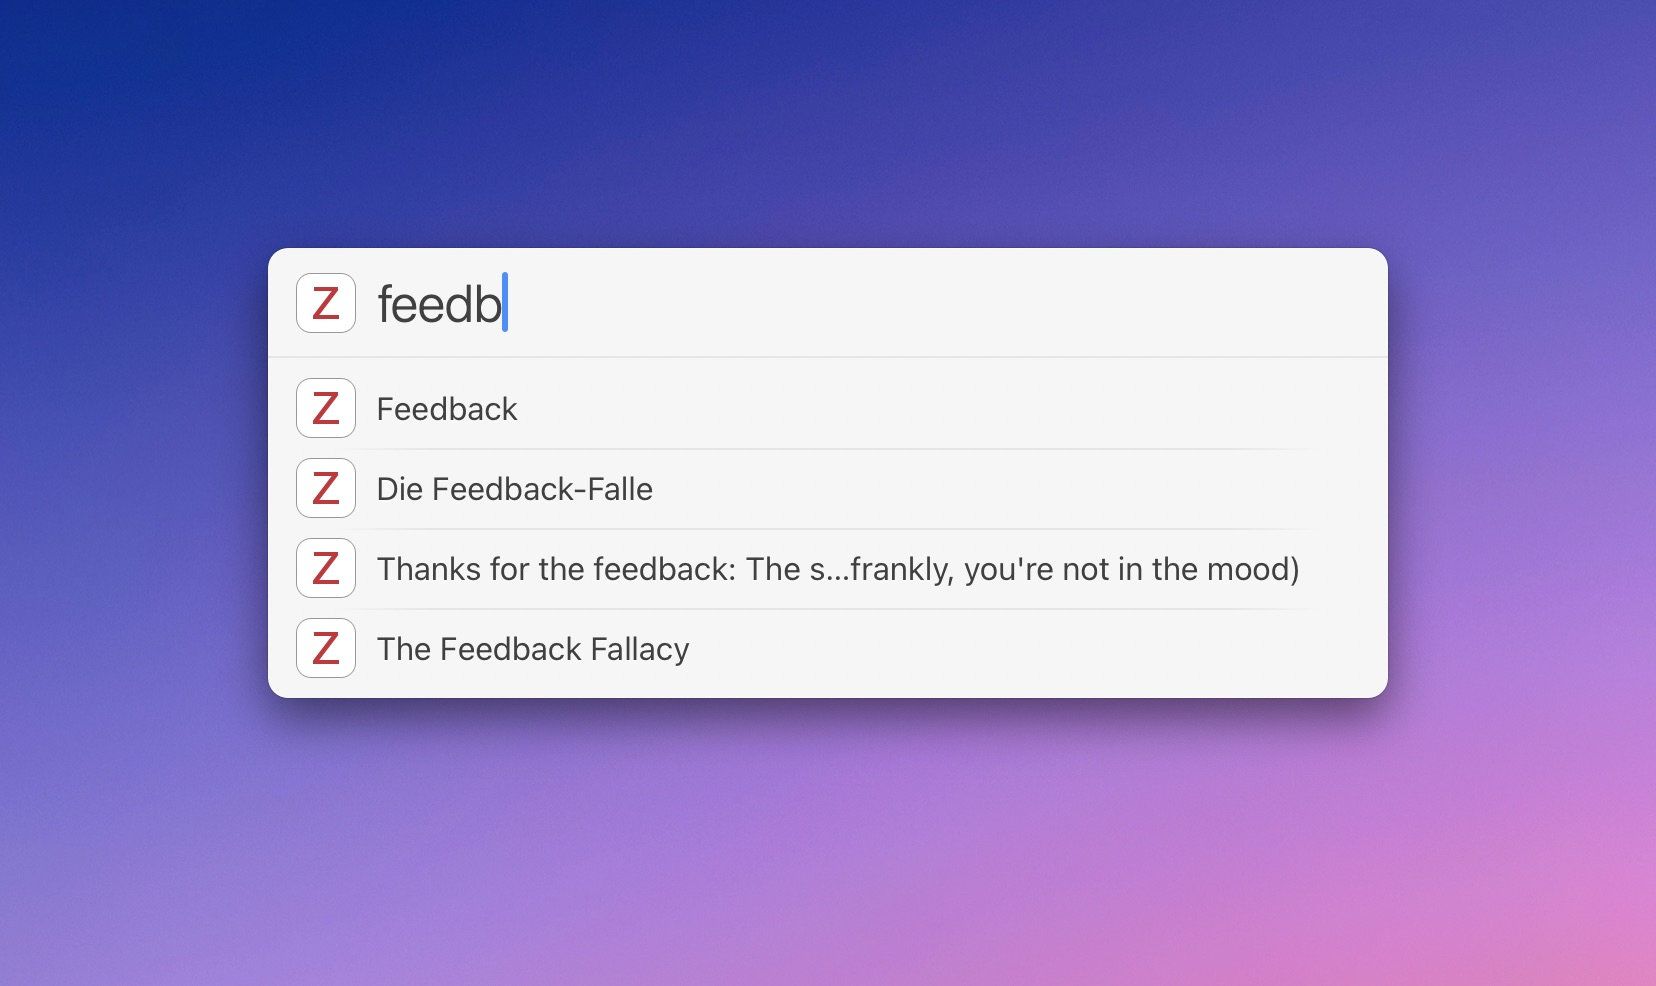
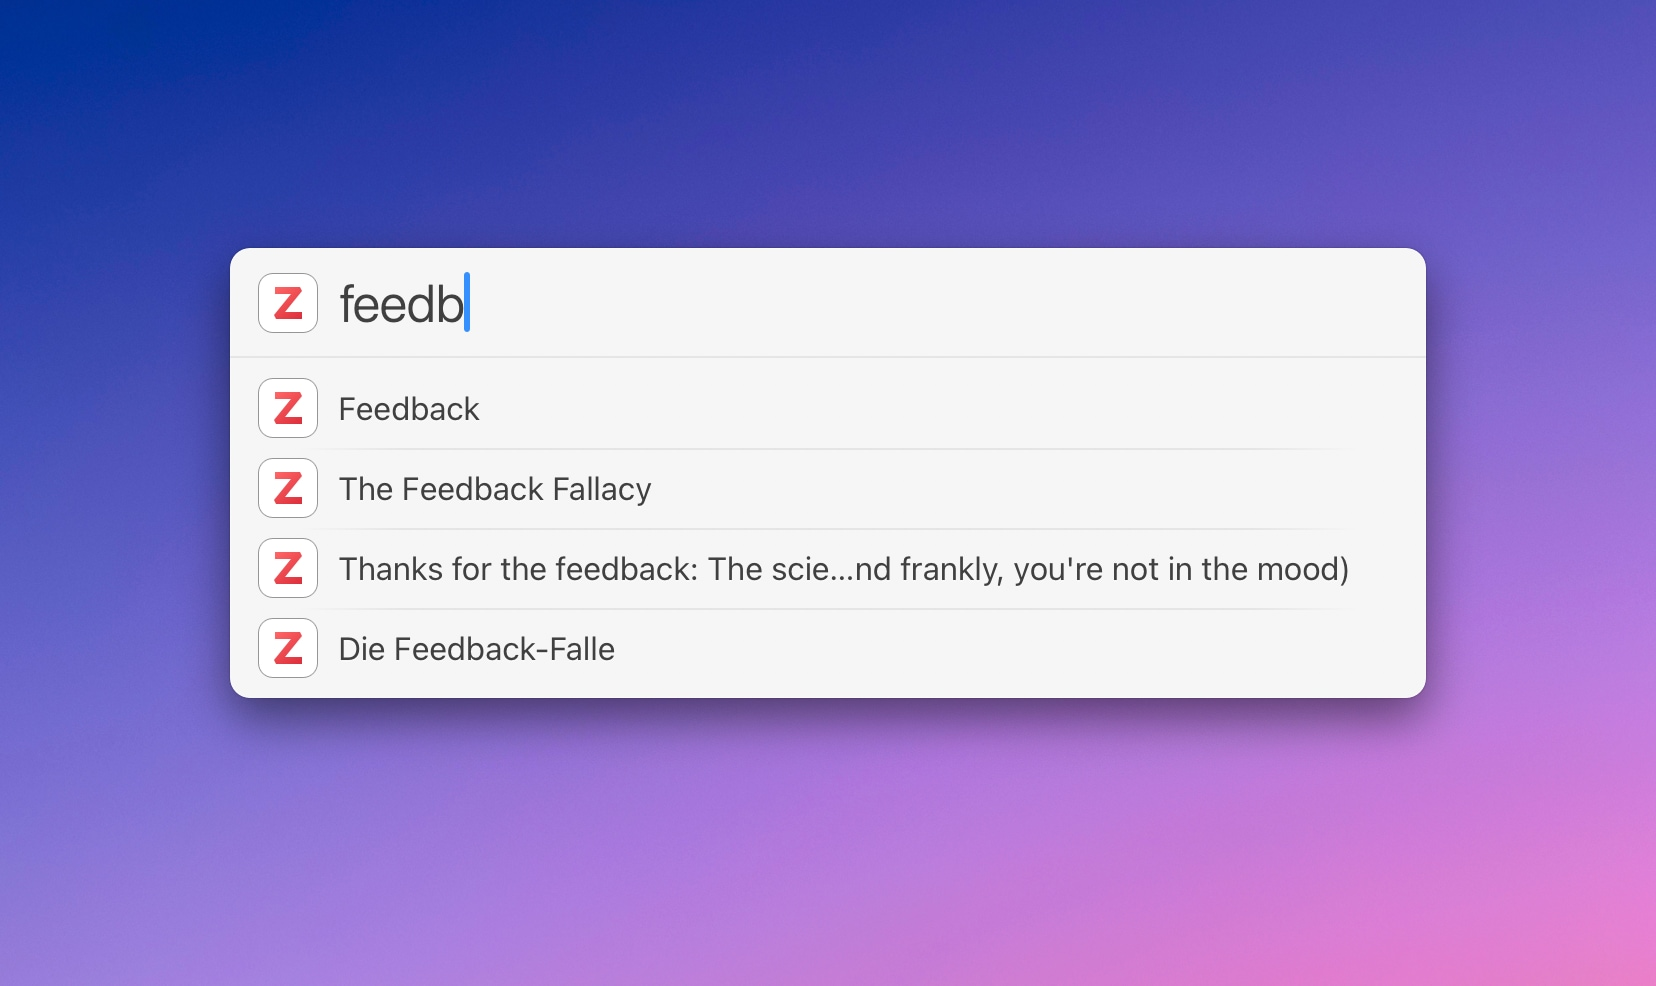
1.6
Update for Zotero 7
- updated icons to match Z7 style
- respect Zotero setting for opening PDFs
- changed wording from "Open in Zotero" to "Select in Zotero"

Changed region(s): [[0.1232, 0.2434, 0.8007, 0.7302], [0.8315, 0.2434, 0.8931, 0.7302]]

diff --git a/Zotero-Actions/Zotero Search v2.lbaction/Contents/Scripts/default.js b/Zotero-Actions/Zotero Search v2.lbaction/Contents/Scripts/default.js
@@ -4,6 +4,9 @@ by Christian Bender (@ptujec)
 2023-05-17
 
 Copyright see: https://github.com/Ptujec/LaunchBar/blob/master/LICENSE
+
+TODO: 
+- Build citation according to a csl style sheet?
 */
 
 const zoteroDirectory = getZoteroDirectory();
@@ -337,7 +340,7 @@ function showEntries(itemIDs, data) {
       attachmentItemIDs[item.itemID] = true;
     }
     map[item.itemID] = {
-      url: `zotero://select/items/${item.libraryID}_${item.key}`,
+      zoteroSelectURL: `zotero://select/items/${item.libraryID}_${item.key}`,
       typeName: item.typeName,
     };
     return map;
@@ -445,7 +448,9 @@ function showEntries(itemIDs, data) {
         icon: icon,
         action: 'itemActions',
         actionArgument: {
-          zoteroURL: itemsMap[itemID] ? itemsMap[itemID].url : '',
+          zoteroSelectURL: itemsMap[itemID]
+            ? itemsMap[itemID].zoteroSelectURL
+            : '',
           itemID: itemID,
           creators: creators,
           date: date,
@@ -482,7 +487,7 @@ function initializeName(name) {
 
 function itemActions(dict) {
   if (LaunchBar.options.commandKey) {
-    openZoteroURL(dict);
+    selectInZotero(dict);
   } else if (LaunchBar.options.shiftKey) {
     pasteCitation(dict);
   } else {
@@ -502,7 +507,7 @@ function showItemDetails(dict) {
 
   const attachedUrlsItemIDs = [];
 
-  const paths = data.itemAttachments.reduce((acc, item) => {
+  const attachmentsWithPath = data.itemAttachments.reduce((acc, item) => {
     if (itemID == item.parentItemID) {
       if (item.path) {
         acc.push({
@@ -511,6 +516,7 @@ function showItemDetails(dict) {
             storageDirectory + item.key + '/'
           ),
           type: item.contentType,
+          key: item.key,
         });
       } else if (
         !item.path &&
@@ -789,9 +795,9 @@ function showItemDetails(dict) {
   details = [...details, ...notes, ...urls];
 
   // Add Storage paths
-  if (paths.length > 0) {
+  if (attachmentsWithPath.length > 0) {
     let found = false;
-    for (const item of paths) {
+    for (const item of attachmentsWithPath) {
       if (
         !found &&
         (item.type === 'application/pdf' ||
@@ -800,12 +806,20 @@ function showItemDetails(dict) {
         details[0].subtitle = '';
         details[0].path = item.path;
         details[0].actionArgument.path = item.path;
+        details[0].actionArgument.key = item.key;
         found = true;
       }
       const title = item.path.split('/').slice(-1)[0] || '';
+
       details.push({
         title: title,
         path: item.path,
+        action: 'itemDetailActions',
+        actionArgument: {
+          path: item.path,
+          key: item.key,
+          itemID,
+        },
         subtitle: '',
         icon: 'attachmentTemplate',
       });
@@ -820,10 +834,10 @@ function showItemDetails(dict) {
       actionArgument: dict,
     },
     {
-      title: 'Open in Zotero',
-      icon: 'openTemplate',
-      url: dict.zoteroURL,
-      action: 'openZoteroURL',
+      title: 'Select in Zotero',
+      icon: 'selectTemplate',
+      url: dict.zoteroSelectURL,
+      action: 'selectInZotero',
       actionArgument: dict,
     }
   );
@@ -834,7 +848,7 @@ function showItemDetails(dict) {
 function itemDetailActions(dict) {
   // Options
   if (LaunchBar.options.commandKey) {
-    return openZoteroURL(dict);
+    return selectInZotero(dict);
   }
 
   if (LaunchBar.options.shiftKey) {
@@ -845,11 +859,27 @@ function itemDetailActions(dict) {
   LaunchBar.hide();
   saveRecent(dict.itemID);
 
-  if (dict.path != undefined) {
+  // Open
+  if (Action.preferences.openOption == 'systemDefault' && dict.path) {
     LaunchBar.openURL(File.fileURLForPath(dict.path));
-  } else {
-    LaunchBar.openURL(dict.url || dict.zoteroURL);
+    return;
   }
+
+  if (dict.key) {
+    // dict.key is the attachment key
+    const data = File.readJSON(dataPath);
+    const foundItem = data.items.filter(
+      (item) => dict.itemID === item.itemID
+    )[0]; // the itemID is from the entry not the attachment … but should be the same library
+    if (foundItem) {
+      // does not work with epub files
+      zoteroOpenPDFURL = `zotero://open-pdf/${foundItem.libraryID}_${dict.key}`;
+      LaunchBar.openURL(zoteroOpenPDFURL);
+    }
+    return;
+  }
+
+  LaunchBar.openURL(dict.url || dict.zoteroSelectURL);
 }
 
 function showItemsByField(fieldID, value) {
@@ -1031,15 +1061,15 @@ function pasteCitation(dict) {
     LaunchBar.executeAppleScriptFile(
       './rt.applescript',
       citation,
-      dict.zoteroURL
+      dict.zoteroSelectURL
     );
   } else if (citationFormat == 'markdown') {
-    LaunchBar.paste(`[${citation}](${dict.zoteroURL})`);
+    LaunchBar.paste(`[${citation}](${dict.zoteroSelectURL})`);
   } else {
     // LaunchBar.paste(citation);
     // LaunchBar.setClipboardString(dict.url);
     LaunchBar.executeAppleScript(
-      `set the clipboard to "${dict.zoteroURL}"`,
+      `set the clipboard to "${dict.zoteroSelectURL}"`,
       `tell application "LaunchBar" to paste in frontmost application "${citation}"`
     );
   }
@@ -1051,17 +1081,17 @@ function openURL({ itemID, url }) {
   LaunchBar.openURL(url);
 }
 
-function openZoteroURL({ itemID, zoteroURL }) {
+function selectInZotero({ itemID, zoteroSelectURL }) {
   LaunchBar.hide();
   saveRecent(itemID);
 
-  if (checkZoteroVersion()) {
-    LaunchBar.executeAppleScript(
-      'tell application id "org.zotero.zotero" to launch'
-    );
-  }
+  // if (checkZoteroVersion()) {
+  //   LaunchBar.executeAppleScript(
+  //     'tell application id "org.zotero.zotero" to launch'
+  //   );
+  // }
 
-  LaunchBar.openURL(zoteroURL);
+  LaunchBar.openURL(zoteroSelectURL);
 }
 
 function openNote({ parentItemID, itemID }) {
@@ -1073,16 +1103,16 @@ function openNote({ parentItemID, itemID }) {
 
   const foundItem = data.items.filter((item) => itemID === item.itemID)[0];
   if (foundItem) {
-    zoteroURL = `zotero://select/items/${foundItem.libraryID}_${foundItem.key}`;
+    zoteroSelectURL = `zotero://select/items/${foundItem.libraryID}_${foundItem.key}`;
   }
 
-  if (checkZoteroVersion()) {
-    LaunchBar.executeAppleScript(
-      'tell application id "org.zotero.zotero" to launch'
-    );
-  }
+  // if (checkZoteroVersion()) {
+  //   LaunchBar.executeAppleScript(
+  //     'tell application id "org.zotero.zotero" to launch'
+  //   );
+  // }
 
-  LaunchBar.openURL(zoteroURL);
+  LaunchBar.openURL(zoteroSelectURL);
 }
 
 function saveRecent(itemID) {
@@ -1105,17 +1135,17 @@ function saveRecent(itemID) {
   Action.preferences.recentItems = recentItems;
 }
 
-function checkZoteroVersion() {
-  const contents = File.getDirectoryContents('/Applications/');
+// function checkZoteroVersion() {
+//   const contents = File.getDirectoryContents('/Applications/');
 
-  const zotero = contents.find((item) => item.startsWith('Zotero')) || '';
+//   const zotero = contents.find((item) => item.startsWith('Zotero')) || '';
 
-  const plist = File.readPlist(`/Applications/${zotero}/Contents/Info.plist`);
+//   const plist = File.readPlist(`/Applications/${zotero}/Contents/Info.plist`);
 
-  const version = parseInt(plist.CFBundleVersion.split('.')[0]);
+//   const version = parseInt(plist.CFBundleVersion.split('.')[0]);
 
-  return version < 7;
-}
+//   return version < 7;
+// }
 
 function isNewerActionVersion(lastUsedActionVersion, currentActionVersion) {
   const lastUsedParts = lastUsedActionVersion.split('.');
@@ -1132,25 +1162,39 @@ function isNewerActionVersion(lastUsedActionVersion, currentActionVersion) {
 // SETTINGS
 
 function settings() {
-  let formatIcon, badge;
+  let formatIcon, formatSelection;
 
   if (Action.preferences.citationFormat == 'richText') {
     formatIcon = 'rTemplate';
-    badge = 'Rich Text';
+    formatSelection = 'Rich Text';
   } else if (Action.preferences.citationFormat == 'markdown') {
     formatIcon = 'mTemplate';
-    badge = 'Markdown';
+    formatSelection = 'Markdown';
   } else {
     formatIcon = 'pasteTemplate';
-    badge = 'Plain';
+    formatSelection = 'Plain';
   }
 
   return [
     {
       title: 'Citation Format',
-      subtitle: badge,
+      subtitle: formatSelection,
+      alwaysShowsSubtitle: true,
       icon: formatIcon,
       children: listFormats(),
+    },
+    {
+      title: 'Open Attachments',
+      alwaysShowsSubtitle: true,
+      subtitle:
+        Action.preferences.openOption == 'systemDefault'
+          ? 'System Default'
+          : 'Respect Zotero Setting',
+      icon:
+        Action.preferences.openOption == 'systemDefault'
+          ? 'systemDefaultTemplate'
+          : 'zoteroSettingTemplate',
+      children: listOpenOptions(),
     },
   ];
 }
@@ -1160,6 +1204,7 @@ function listFormats() {
     {
       title: 'Paste citation only',
       subtitle: 'The link will be copied to the clipboard',
+      alwaysShowsSubtitle: true,
       // icon: 'plainTemplate',
       icon: 'pasteTemplate',
       action: 'setFormat',
@@ -1182,6 +1227,32 @@ function listFormats() {
 
 function setFormat(citationFormat) {
   Action.preferences.citationFormat = citationFormat;
+  return settings();
+}
+
+function listOpenOptions() {
+  return [
+    {
+      title: 'Respect Zotero Setting',
+      subtitle: 'Will respect the reader setting in Zotero (Gerneral/Reader).',
+      alwaysShowsSubtitle: true,
+      icon: 'zoteroSettingTemplate',
+      action: 'setOpenOption',
+      actionArgument: 'zoteroSetting',
+    },
+    {
+      title: 'System Default',
+      subtitle: 'Will use the default app without opening Zotero first.',
+      alwaysShowsSubtitle: true,
+      icon: 'systemDefaultTemplate',
+      action: 'setOpenOption',
+      actionArgument: 'systemDefault',
+    },
+  ];
+}
+
+function setOpenOption(openOption) {
+  Action.preferences.openOption = openOption;
   return settings();
 }
 

diff --git a/Zotero-Actions/README.md b/Zotero-Actions/README.md
@@ -49,7 +49,7 @@ You can use quicklook, open the attachment, or even mail it to someone. There ar
 
 If there is a URL specified for the item, you can open it.
 
-#### 4) Open Item in Zotero
+#### 4) Select in Zotero
 
 This action also allows you to quickly look up items in the Zotero app. This way, you can quickly edit an item or perform other tasks that you cannot currently do within the action itself.
 
